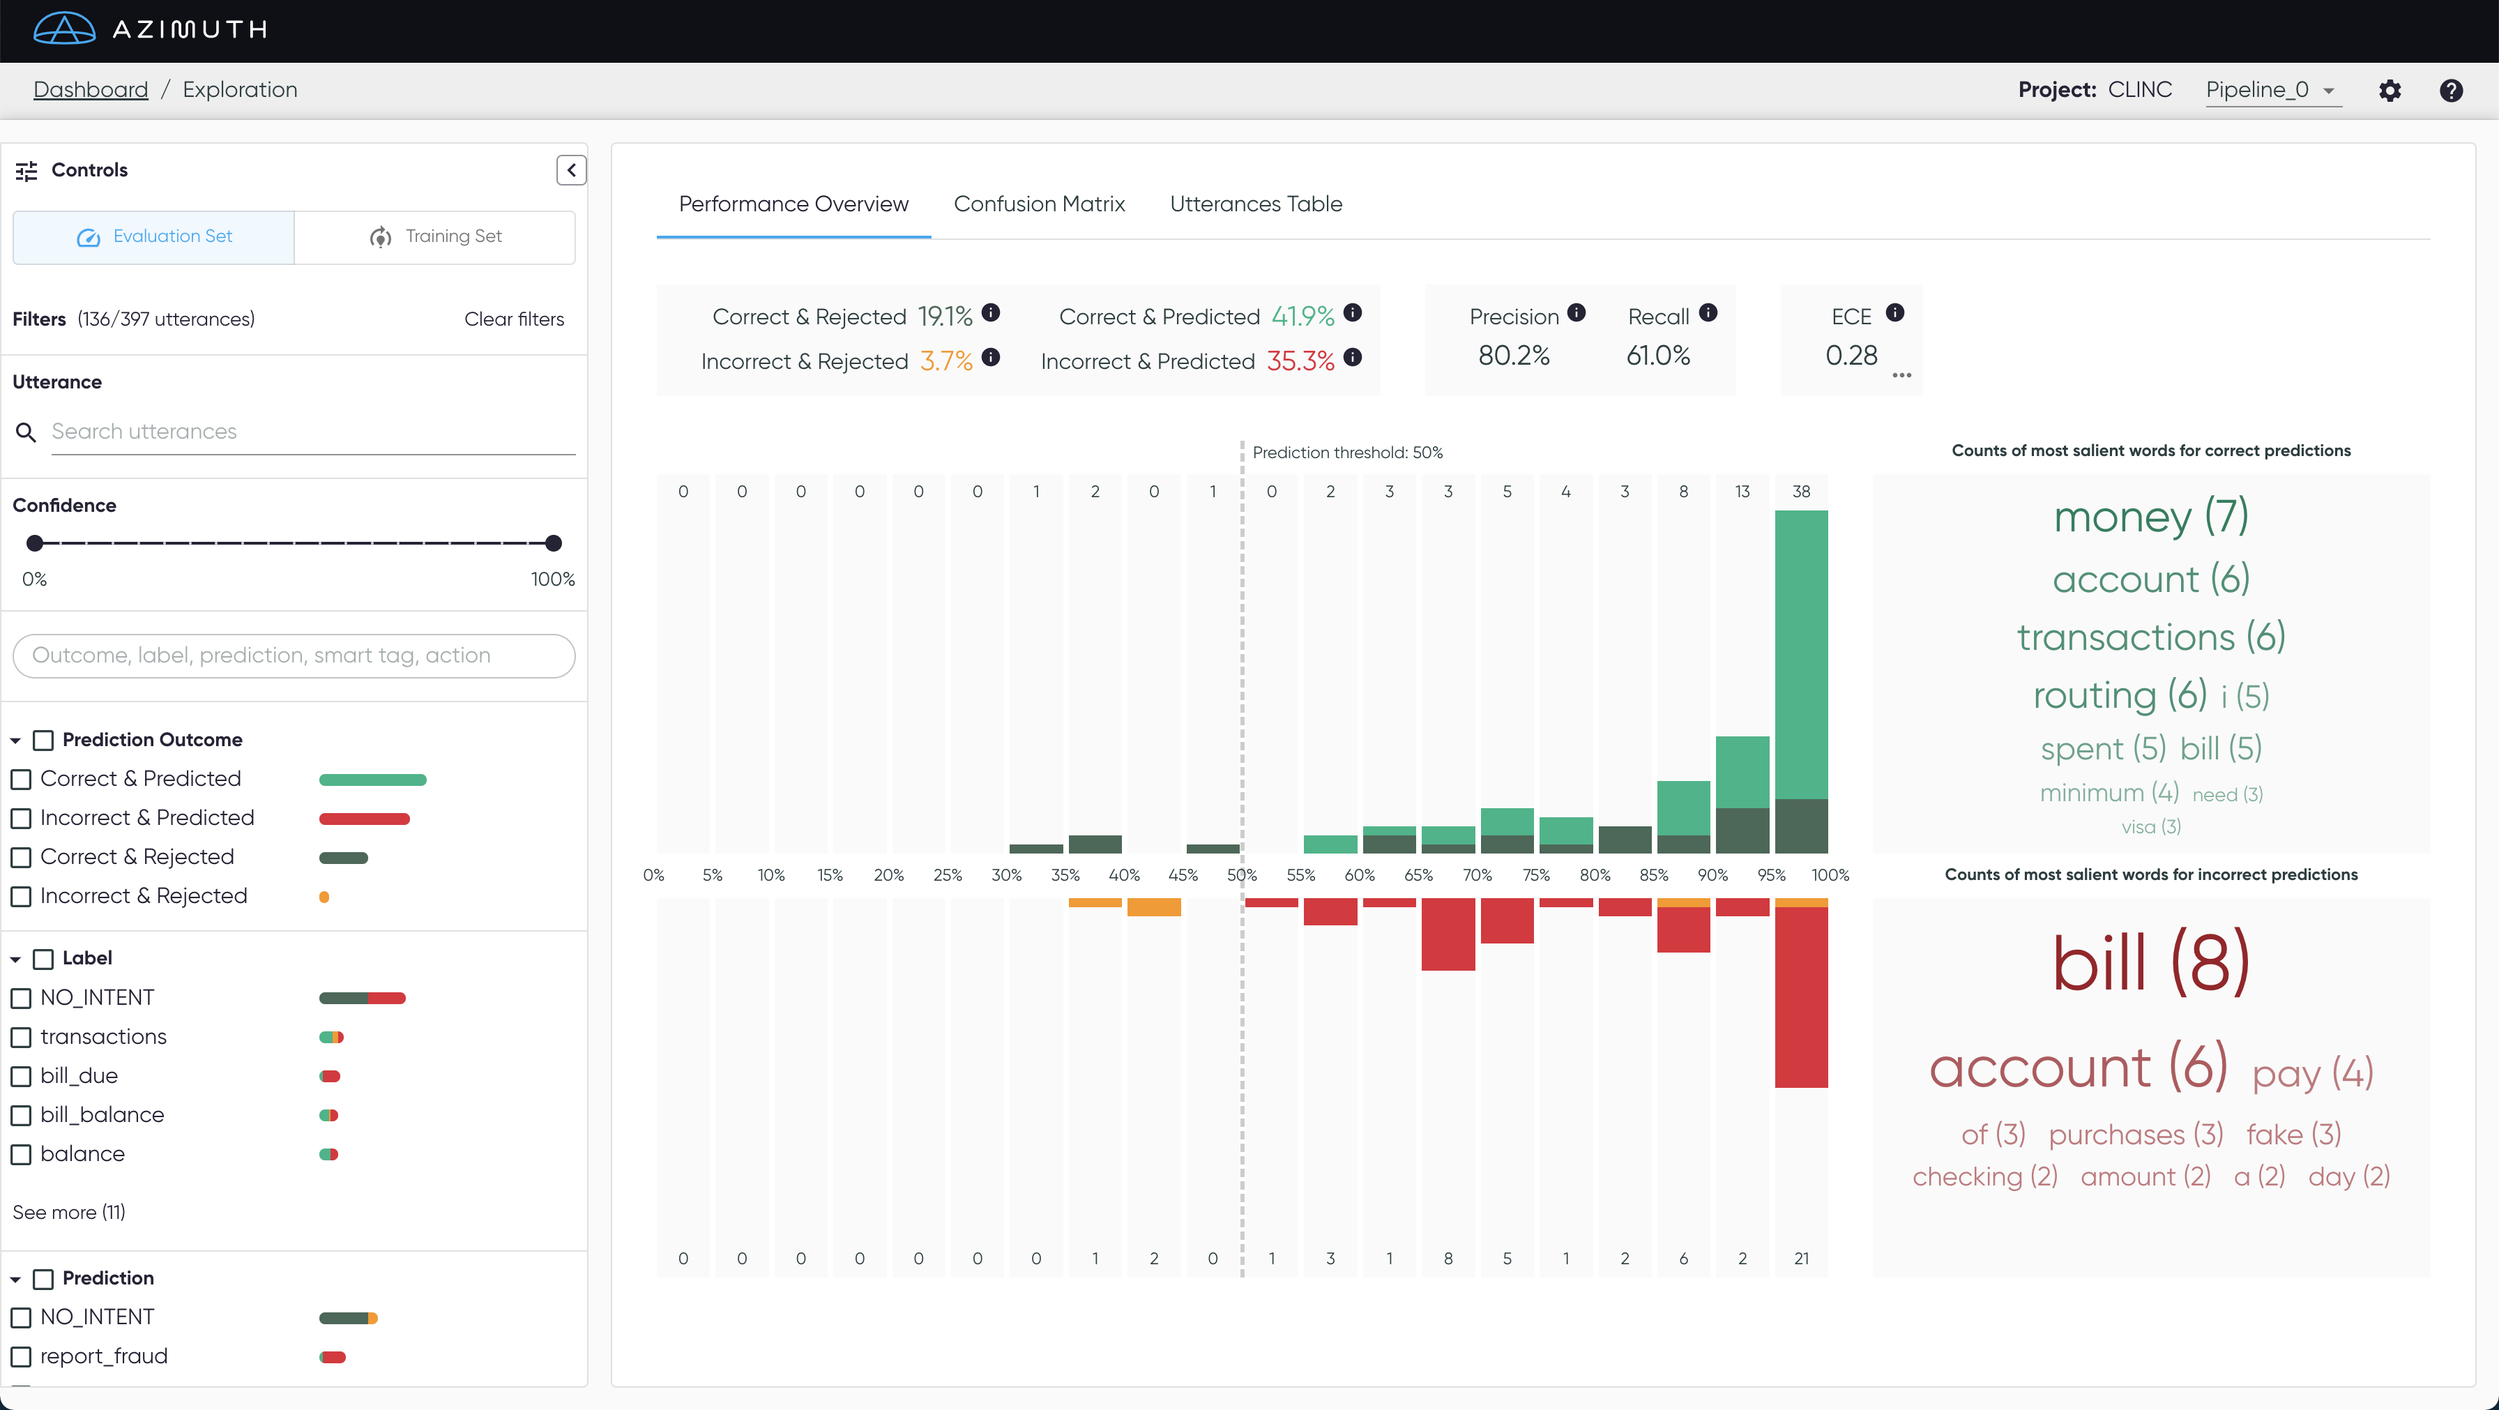
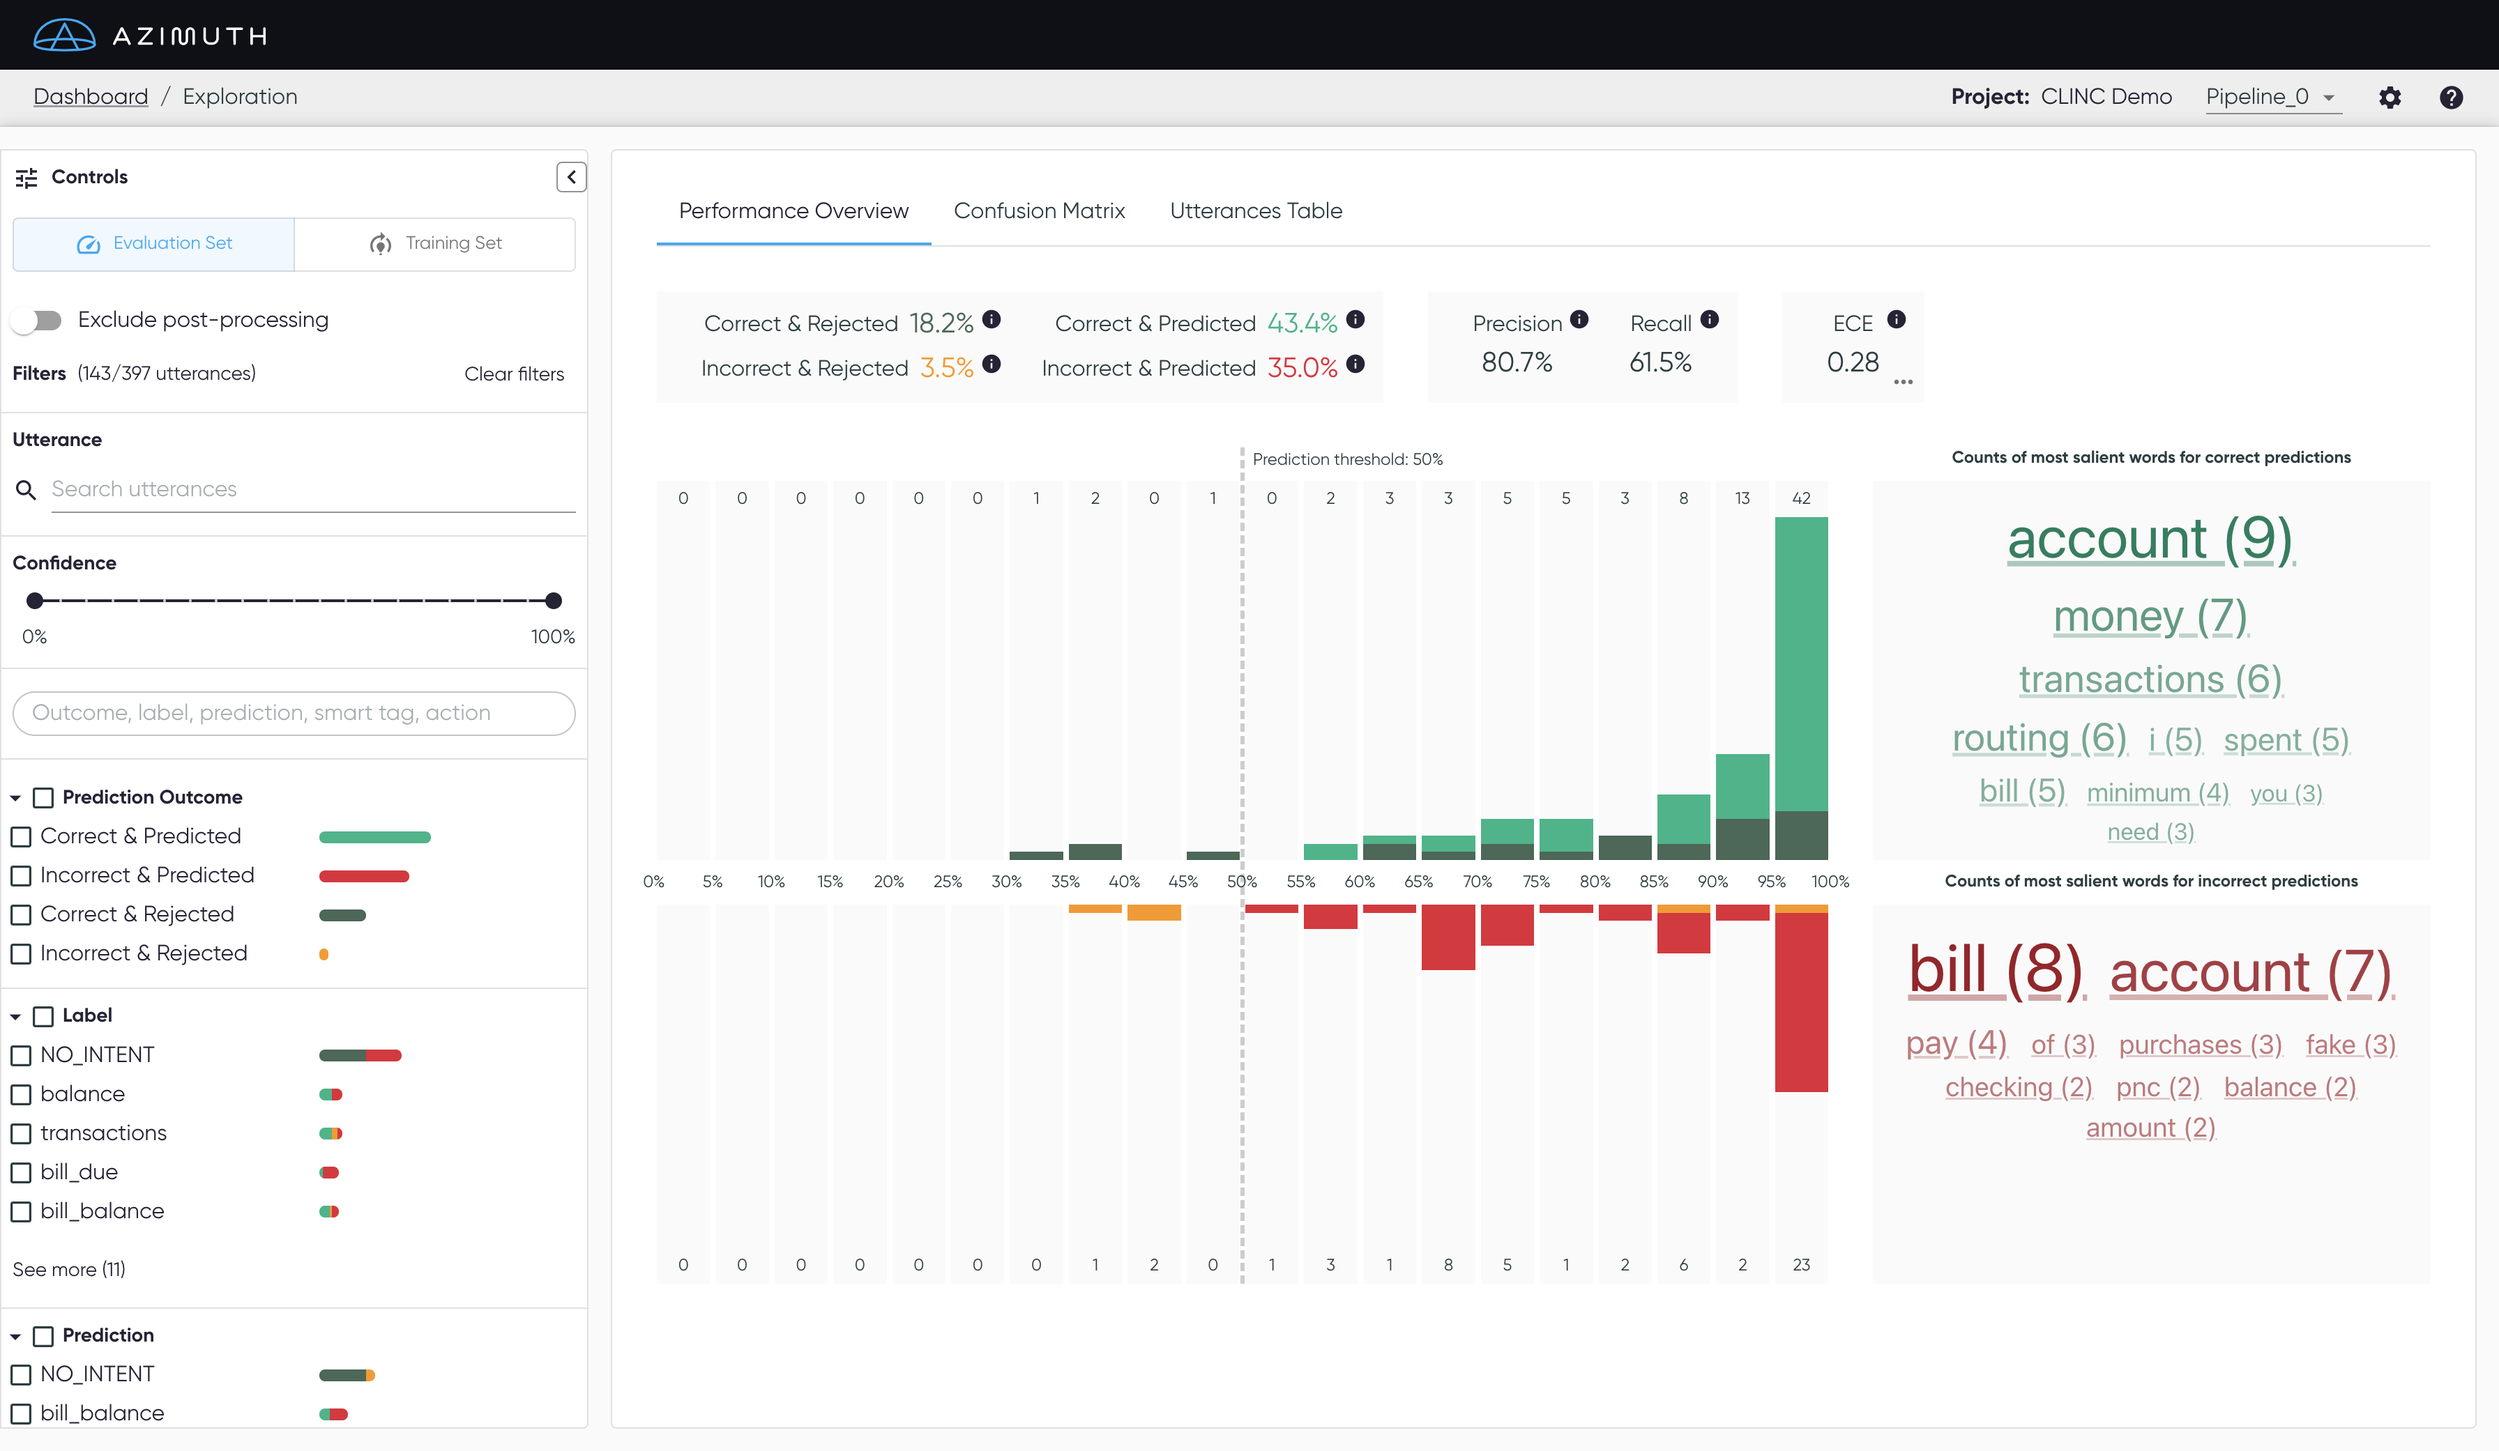
Update release notes (#80)
* Update release notes

* Update version

* Update screenshot

diff --git a/CHANGELOG.md b/CHANGELOG.md
@@ -5,27 +5,20 @@ All notable changes to this project will be documented in this file.
 The format is based on [Keep a Changelog](https://keepachangelog.com/en/1.0.0/), and this project
 adheres to [Semantic Versioning](https://semver.org/spec/v2.0.0.html).
 
+Released changes are shown in the
+[documentation release notes](docs/docs/getting-started/changelog.md).
+
 ## [Not released]
 
 ### Added
-- Ability to get predictions without postprocessing in the exploration space. (Only back end for
-  now)
-- New Smart Tags `pipeline_disagreement` and `incorrect_for_all_pipelines` as a first step for pipeline comparison.
-- Links on top words to filter utterances that contain it.
-- `/confusion_matrix` now supports `normalized:bool` to get counts versus normalized confusion matrix.
-- added "Without Postprocessing" feature to enable/disable post processing feature on the data
 
 ### Changed
 - Renamed our docker images to use `servicenowdocker` registry on Docker Hub.
 
 ### Deprecated/Breaking Changes
 
-
 ### Removed
 
 ### Fixed
 
 ### Security
-
-Released changes are shown in the
-[documentation release notes](docs/getting-started/release-notes.md).

diff --git a/docs/docs/getting-started/changelog.md b/docs/docs/getting-started/changelog.md
@@ -1,0 +1,14 @@
+# Releases
+
+## [2.1.0] - 2021-05-27
+
+- Ability to get predictions without postprocessing in the exploration space. See section "Excluding
+  Post-Processing" [here](../user-guide/exploration-space/index.md).
+- New Smart Tags `pipeline_disagreement` and `incorrect_for_all_pipelines` as a first step for
+  pipeline comparison. See section "Pipeline Comparison" [here](../key-concepts/smart-tags.md).
+- Links on top words to filter utterances that contain it. See the section "Word
+  Clouds" [here](../user-guide/exploration-space/performance-overview.md).
+
+## [2.0.0] - 2021-04-12
+
+First public release.

diff --git a/docs/docs/index.md b/docs/docs/index.md
@@ -15,7 +15,7 @@ current focus is on text classification.
 ## :material-file-tree: Documentation Structure
 
 * [:material-link: Getting Started](getting-started/index.md) contains all the instructions to **
-  install** and **launch** the app.
+  install** and **launch** the app. It also details the **changelog** of our releases.
 * [:material-link: Key Concepts](key-concepts/index.md) explains the different **concepts and
   analyses** that are provided in Azimuth to perform dataset and error analysis.
 * [:material-link: User Guide](user-guide/index.md) goes **screen per screen** to explain the
